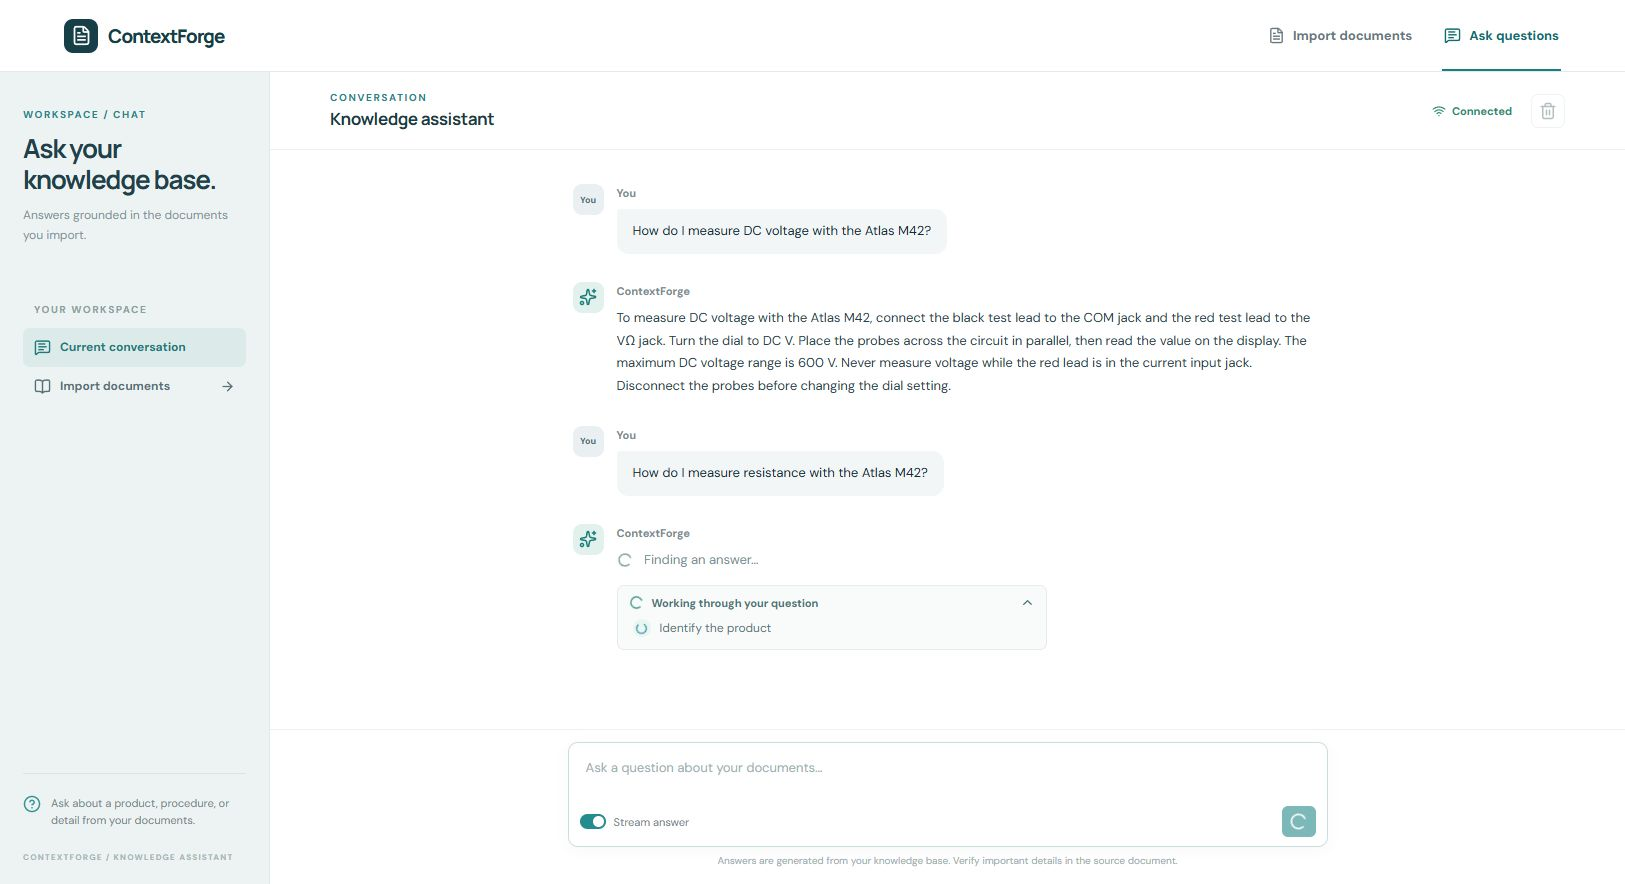
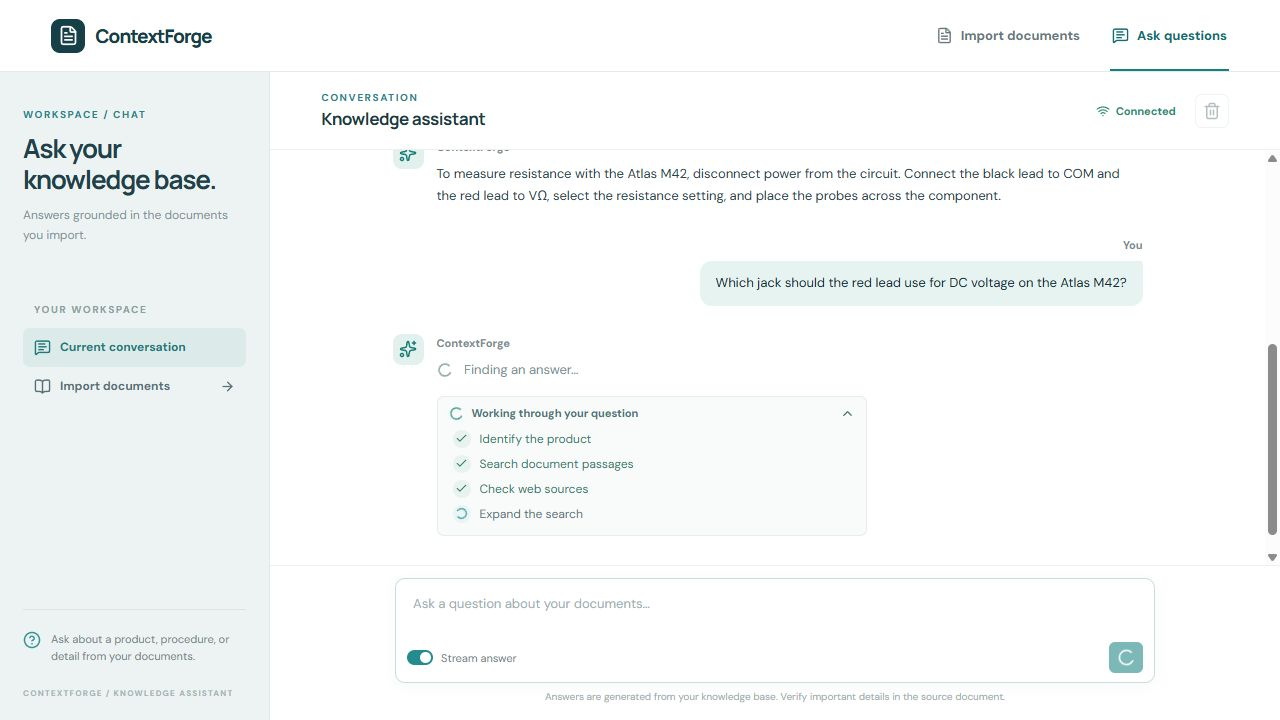
Redesign README and align user chat messages right

diff --git a/frontend/src/pages/ChatPage.tsx b/frontend/src/pages/ChatPage.tsx
@@ -153,7 +153,7 @@ export function ChatPage() {
     <section className="conversation" aria-label="Conversation">
       <header className="conversation-header"><div><p className="eyebrow">CONVERSATION</p><h2>Knowledge assistant</h2></div><div className="conversation-actions"><span className={`connection-status ${online === false ? 'offline' : ''}`}>{online === false ? <WifiOff size={14} /> : <Wifi size={14} />}{online === false ? 'Service offline' : online === null ? 'Connecting' : 'Connected'}</span><button className="icon-button" type="button" onClick={clearConversation} disabled={busy || !messages.length} aria-label="Clear conversation" title="Clear conversation"><Trash2 size={18} /></button></div></header>
       <div className="message-scroll">
-        {loadingHistory ? <div className="chat-loading"><LoaderCircle className="spin" size={23} /> Loading conversation…</div> : messages.length === 0 ? <div className="chat-welcome"><span className="welcome-mark"><Sparkles size={27} /></span><p className="eyebrow">START A CONVERSATION</p><h2>What would you like to know?</h2><p>Ask a question about your imported documents and follow each step of the answer.</p><div className="suggestions">{suggestions.map((suggestion) => <button key={suggestion} type="button" onClick={() => void send(suggestion)}>{suggestion}<ArrowRight size={16} /></button>)}</div></div> : <div className="messages">{messages.map((message) => <div className={`message-row ${message.role}`} key={message.id}><div className={`message-avatar ${message.role}`} aria-hidden="true">{message.role === 'assistant' ? <Sparkles size={18} /> : <span>You</span>}</div><div className="message-body"><div className="message-meta">{message.role === 'assistant' ? 'ContextForge' : 'You'}</div>{message.role === 'user' ? <div className="user-message">{message.text}</div> : <><div className="assistant-answer">{message.text ? <p>{message.text}</p> : <span className="thinking"><LoaderCircle size={16} className="spin" /> Finding an answer…</span>}{message.imageUrls.length > 0 && <div className="answer-images">{message.imageUrls.map((url) => <a href={url} target="_blank" rel="noreferrer" key={url}><img src={url} alt="Document reference" loading="lazy" /></a>)}</div>}</div>{message.progress && (message.progress.done_list.length > 0 || message.progress.running_list.length > 0 || message.pending) && <details className="answer-progress"><summary><span className="progress-summary-icon">{message.pending ? <LoaderCircle size={15} className="spin" /> : <Check size={15} />}</span><span>{message.pending ? 'Working through your question' : `${message.progress.done_list.length} steps completed`}</span><ChevronDown size={15} className="summary-chevron" /></summary><ProgressSteps progress={message.progress} compact /></details>}</>}</div></div>)}<div ref={endRef} /></div>}
+        {loadingHistory ? <div className="chat-loading"><LoaderCircle className="spin" size={23} /> Loading conversation…</div> : messages.length === 0 ? <div className="chat-welcome"><span className="welcome-mark"><Sparkles size={27} /></span><p className="eyebrow">START A CONVERSATION</p><h2>What would you like to know?</h2><p>Ask a question about your imported documents and follow each step of the answer.</p><div className="suggestions">{suggestions.map((suggestion) => <button key={suggestion} type="button" onClick={() => void send(suggestion)}>{suggestion}<ArrowRight size={16} /></button>)}</div></div> : <div className="messages">{messages.map((message) => <div className={`message-row ${message.role}`} key={message.id}>{message.role === 'assistant' && <div className="message-avatar assistant" aria-hidden="true"><Sparkles size={18} /></div>}<div className="message-body"><div className="message-meta">{message.role === 'assistant' ? 'ContextForge' : 'You'}</div>{message.role === 'user' ? <div className="user-message">{message.text}</div> : <><div className="assistant-answer">{message.text ? <p>{message.text}</p> : <span className="thinking"><LoaderCircle size={16} className="spin" /> Finding an answer…</span>}{message.imageUrls.length > 0 && <div className="answer-images">{message.imageUrls.map((url) => <a href={url} target="_blank" rel="noreferrer" key={url}><img src={url} alt="Document reference" loading="lazy" /></a>)}</div>}</div>{message.progress && (message.progress.done_list.length > 0 || message.progress.running_list.length > 0 || message.pending) && <details className="answer-progress"><summary><span className="progress-summary-icon">{message.pending ? <LoaderCircle size={15} className="spin" /> : <Check size={15} />}</span><span>{message.pending ? 'Working through your question' : `${message.progress.done_list.length} steps completed`}</span><ChevronDown size={15} className="summary-chevron" /></summary><ProgressSteps progress={message.progress} compact /></details>}</>}</div></div>)}<div ref={endRef} /></div>}
       </div>
       <div className="composer-area">{error && <p className="chat-error" role="alert">{error}<button type="button" onClick={() => setError('')} aria-label="Dismiss error"><RotateCcw size={15} /></button></p>}<form className="composer" onSubmit={onSubmit}><label className="visually-hidden" htmlFor="question">Ask a question</label><textarea ref={inputRef} id="question" placeholder="Ask a question about your documents…" value={question} onChange={(event) => setQuestion(event.target.value)} onKeyDown={(event) => { if (event.key === 'Enter' && !event.shiftKey) { event.preventDefault(); void send(question) } }} rows={2} disabled={busy} /><div className="composer-tools"><label className="stream-toggle"><input type="checkbox" checked={streaming} onChange={(event) => setStreaming(event.target.checked)} disabled={busy} /><span className="toggle-track" />Stream answer</label><button className="send-button" type="submit" disabled={busy || !question.trim()} aria-label="Send question">{busy ? <LoaderCircle size={19} className="spin" /> : <Send size={19} />}</button></div></form><p className="composer-caption">Answers are generated from your knowledge base. Verify important details in the source document.</p></div>
     </section>

diff --git a/frontend/src/styles.css b/frontend/src/styles.css
@@ -642,6 +642,9 @@ button:focus-visible,a:focus-visible,textarea:focus-visible,input:focus-visible,
   gap:13px;
   margin-bottom:28px
 }
+.message-row.user {
+  justify-content:flex-end
+}
 .message-avatar {
   height:31px;
   width:31px;
@@ -654,15 +657,16 @@ button:focus-visible,a:focus-visible,textarea:focus-visible,input:focus-visible,
   background:#e2f1ed;
   color:#177d76
 }
-.message-avatar.user {
-  background:#eaf0f2;
-  color:#516f79;
-  font-weight:800;
-  font-size:9px
-}
 .message-body {
   min-width:0;
   flex:1
+}
+.message-row.user .message-body {
+  flex:0 1 auto;
+  max-width:75%;
+  display:flex;
+  flex-direction:column;
+  align-items:flex-end
 }
 .message-meta {
   font-size:11px;
@@ -672,13 +676,14 @@ button:focus-visible,a:focus-visible,textarea:focus-visible,input:focus-visible,
 }
 .user-message {
   display:inline-block;
-  background:#f2f6f6;
-  border-radius:3px 12px 12px 12px;
+  background:#e6f3f1;
+  border-radius:12px 3px 12px 12px;
   padding:12px 16px;
   max-width:100%;
   line-height:1.6;
   font-size:13px;
-  white-space:pre-wrap
+  white-space:pre-wrap;
+  overflow-wrap:anywhere
 }
 .assistant-answer {
   max-width:720px;
@@ -937,6 +942,9 @@ button:focus-visible,a:focus-visible,textarea:focus-visible,input:focus-visible,
   }
   .message-row {
     gap:9px
+  }
+  .message-row.user .message-body {
+    max-width:88%
   }
   .message-avatar {
     height:28px;

diff --git a/README.md b/README.md
@@ -1,48 +1,54 @@
-# ContextForge
+<p align="center">
+  <img src="./assets/readme/contextforge-overview.svg" width="100%" alt="ContextForge turns PDF and Markdown documents into searchable passages and grounded answers with visible processing steps">
+</p>
 
-Import reference documents, then ask questions against them in a browser. ContextForge combines a React and TypeScript frontend with two FastAPI services. It turns PDF and Markdown files into a searchable knowledge base and shows each step as it builds an answer.
+**ContextForge** is a local document Q&A workspace. Import PDF or Markdown, watch each indexing step, and ask questions in a React chat interface that shows how an answer was produced.
 
-![ContextForge chat answering a question from an imported document](docs/screenshots/chat-accepted.png)
+**Stack:** React + TypeScript + Vite · FastAPI + LangGraph · Milvus + MongoDB + MinIO
 
-The chat [streams answers and processing activity](docs/screenshots/chat-processing.png), keeps conversation history, and lets you [inspect the completed steps](docs/screenshots/chat-progress-expanded.png). The separate [import workspace](docs/screenshots/import-accepted.png) shows the status of each document.
+## See it work
 
-## What you can do
+This is a real browser run against the included Atlas M42 sample document. The answer came from the imported document; the chat can also show [live processing](docs/screenshots/chat-processing.png) and [all completed steps](docs/screenshots/chat-progress-expanded.png).
 
-- **Build a knowledge base.** Import Markdown or PDF, process document images, split text into passages, and index dense and sparse BGE-M3 vectors in Milvus.
-- **Ask grounded questions.** Find relevant passages, combine retrieval results, optionally include web search results, rerank matches, and generate an answer with an OpenAI-compatible model.
-- **Follow the work.** Watch import activity and streamed answer progress in the browser. MongoDB restores conversation history when you return.
+![ContextForge React chat showing a user question on the right and a grounded answer on the left](docs/screenshots/chat-accepted.png)
 
-The import and query services run independently, so document processing does not block the chat interface.
+The [import view](docs/screenshots/import-accepted.png) tracks each document through upload, extraction, splitting, embedding, and indexing.
+
+## Try the sample
+
+1. Start the services using [Quick start](#quick-start).
+2. Upload [the Atlas M42 Markdown file](tests/fixtures/atlas-m42.md) at `http://127.0.0.1:5173/import` and wait for **Completed**.
+3. Open `http://127.0.0.1:5173/chat` and ask:
+
+   > How do I measure DC voltage with the Atlas M42?
+
+The answer should mention **COM**, **VΩ**, **DC V**, probes placed **in parallel**, and the **600 V** maximum DC range. Expand the answer's progress row to see the seven query steps. Refresh the chat to see the conversation restored from MongoDB.
+
+This Markdown flow was verified in a browser with the local Docker stack: the file was indexed in Milvus and the conversation was read back from MongoDB. PDF import additionally requires MinerU.
 
 ## Quick start
 
-These commands use Windows PowerShell from the repository root. You need Python 3.12+, [uv](https://docs.astral.sh/uv/), Node.js 22.12+ and npm, Docker Desktop, and an OpenAI-compatible model endpoint. The first installation downloads sizable Python and model dependencies.
+These commands use Windows PowerShell from the repository root. Install Python 3.12+, [uv](https://docs.astral.sh/uv/), Node.js 22.12+ with npm, and Docker Desktop. You also need an OpenAI-compatible model endpoint. The first run downloads Python dependencies and may download BGE-M3 if no local model path is configured.
 
-1. Install the Python environment and create a local configuration file:
+1. Install dependencies and copy the example configuration:
 
    ```powershell
    uv sync --locked
    Copy-Item .env.example .env
-   ```
-
-2. Edit `.env`. Set `OPENAI_BASE_URL`, `OPENAI_API_KEY`, and `LLM_DEFAULT_MODEL` for your model endpoint. Keep `LLM_DEFAULT_TEMPERATURE` numeric. Set `BGE_M3_PATH` to a local BGE-M3 model directory, or leave it empty to let the embedding library download `BAAI/bge-m3` on first use. `BGE_DEVICE=cpu` is the default; use a working CUDA device if available. The storage addresses in `.env.example` already match the local Docker stack.
-
-3. Start MongoDB, MinIO, and Milvus:
-
-   ```powershell
-   docker compose -f compose.local.yml up -d mongo minio milvus
-   docker compose -f compose.local.yml ps
-   ```
-
-4. Install the frontend dependencies:
-
-   ```powershell
    cd frontend
    npm ci
    cd ..
    ```
 
-5. Start each application service in its own terminal:
+2. Edit `.env`: set `OPENAI_BASE_URL`, `OPENAI_API_KEY`, and `LLM_DEFAULT_MODEL`. Keep `LLM_DEFAULT_TEMPERATURE` numeric. Set `BGE_M3_PATH` to a local BGE-M3 directory, or leave it blank to download `BAAI/bge-m3`. The example storage addresses match the local Docker stack.
+
+3. Start the databases and object store:
+
+   ```powershell
+   docker compose -f compose.local.yml up -d mongo minio milvus
+   ```
+
+4. Start the three application processes in separate terminals:
 
    ```powershell
    uv run contextforge import
@@ -52,69 +58,56 @@ These commands use Windows PowerShell from the repository root. You need Python 
    uv run contextforge query
    ```
 
-6. Start the React development server in a third terminal:
-
    ```powershell
    cd frontend
    npm run dev
    ```
 
-Open the [import workspace](http://127.0.0.1:5173/import), then the [chat workspace](http://127.0.0.1:5173/chat). Vite forwards import requests to port `8000` and query requests to port `8001`. Run `uv run contextforge --help` to see the backend `--host` and `--port` options.
+Open the [import page](http://127.0.0.1:5173/import) or [chat page](http://127.0.0.1:5173/chat). Vite forwards import requests to port `8000` and query requests to port `8001`.
 
-For a built frontend, run `npm run build` in `frontend/`, then start or restart the query service. It serves the React app at [localhost:8001/import](http://127.0.0.1:8001/import) and [localhost:8001/chat](http://127.0.0.1:8001/chat). The import API remains on port `8000`. Set `VITE_IMPORT_API_URL` and `VITE_QUERY_API_URL` at build time if the APIs use other origins; the development server uses its local proxies by default. The old `/import.html` and `/chat.html` URLs redirect to the new routes.
+### Built frontend
 
-### Try a document end to end
-
-Upload [the sample Atlas M42 document](tests/fixtures/atlas-m42.md) in the import workspace and wait for **Completed**. Then ask:
-
-> How do I measure DC voltage with the Atlas M42?
-
-A grounded answer should mention the black lead in **COM**, the red lead in **VΩ**, the **DC V** setting, probes placed **in parallel**, and the **600 V** maximum DC range. Expand the answer's completion line to review the processing steps. Refresh the chat page to confirm the conversation loads from MongoDB.
-
-This Markdown import and question flow was verified in a real browser against the local Docker stack. The sample document was indexed in Milvus, the query returned an answer based on that document, and the conversation was read back from MongoDB.
-
-![Completed Atlas M42 Markdown import in the browser](docs/screenshots/import-accepted.png)
-
-## Configuration
-
-Copy `.env.example` rather than editing it. `.env` is ignored by Git.
-
-| Setting | Purpose |
-| --- | --- |
-| `OPENAI_BASE_URL`, `OPENAI_API_KEY`, `LLM_DEFAULT_MODEL` | OpenAI-compatible endpoint, credential, and model used for extraction and answers. |
-| `BGE_M3_PATH`, `BGE_DEVICE` | Local embedding model path and execution device. A blank path triggers a model download on first use. |
-| `BGE_RERANKER_LARGE` | Optional local reranker model path. The query continues with its initial ordering if the reranker cannot load. |
-| `MONGO_URL`, `MILVUS_URL` | Conversation storage and vector database addresses. |
-| `MINIO_ENDPOINT`, `MINIO_ACCESS_KEY`, `MINIO_SECRET_KEY` | Document and image storage. The example credentials are for local development. |
-| `MINERU_BASE_URL`, `MINERU_API_TOKEN` | Required when importing PDF files; Markdown imports do not need MinerU. |
-| `MCP_DASHSCOPE_BASE_URL` | Optional web-search MCP endpoint. Without it, answers use local document results. |
-
-The local Compose file publishes MongoDB on `127.0.0.1:27017`, the application MinIO API on `127.0.0.1:39000` (console: `39001`), and Milvus on `127.0.0.1:39530`. Docker volumes preserve data between restarts. Stop the stack with `docker compose -f compose.local.yml down`.
+Run `npm run build` in `frontend/`, then start or restart the query service. FastAPI serves the built React app at `http://127.0.0.1:8001/import` and `http://127.0.0.1:8001/chat`; the import API stays on port `8000`. If your APIs use other origins, set `VITE_IMPORT_API_URL` and `VITE_QUERY_API_URL` when building. The old `/import.html` and `/chat.html` URLs redirect to the React routes.
 
 ## How it works
 
-**Import:** upload a document → convert PDF to Markdown when needed → process images → split passages → identify product names → embed text → write vectors to Milvus.
+- **Import:** upload → convert PDF when needed → process images → split passages → identify products → generate BGE-M3 vectors → store them in Milvus.
+- **Ask:** identify the product → search passages and optional web results → combine and rerank results → generate a streamed answer. MongoDB stores the conversation for later visits.
 
-**Query:** identify the product in the question → search document passages and optional web results → combine and rerank matches → generate and stream the answer. MongoDB stores user and assistant messages for later turns.
+The React application is in [`frontend/src`](frontend/src). The two FastAPI services and LangGraph workflows are in [`src/app/import_process`](src/app/import_process) and [`src/app/query_process`](src/app/query_process). The browser remembers import task IDs across navigation and reloads; the import API supplies their current status.
 
-The React and TypeScript frontend lives under [`frontend/src`](frontend/src). Shared navigation, upload activity, conversation history, and streamed answer progress are React components. The browser remembers import task IDs locally so the activity list survives navigation and reloads; the import service remains the source of truth for task status. Vite provides the development server and builds static assets for the query service to serve. The Python code lives under [`src/app`](src/app): `import_process` and `query_process` contain their respective LangGraph workflows and FastAPI services, while `clients` contains the storage integrations.
+## Configuration
+
+`.env` is ignored by Git. Copy `.env.example` and set only the integrations you use.
+
+| Setting | Purpose |
+| --- | --- |
+| `OPENAI_BASE_URL`, `OPENAI_API_KEY`, `LLM_DEFAULT_MODEL` | OpenAI-compatible endpoint and model for extraction and answers. |
+| `BGE_M3_PATH`, `BGE_DEVICE` | Embedding model path and device; blank path downloads the model on first use. |
+| `BGE_RERANKER_LARGE` | Optional local reranker; query continues with its initial ordering if unavailable. |
+| `MONGO_URL`, `MILVUS_URL` | Conversation history and vector search. |
+| `MINIO_ENDPOINT`, `MINIO_ACCESS_KEY`, `MINIO_SECRET_KEY` | Document and image storage. |
+| `MINERU_BASE_URL`, `MINERU_API_TOKEN` | PDF conversion; not needed for Markdown import. |
+| `MCP_DASHSCOPE_BASE_URL` | Optional web-search MCP endpoint. |
+
+The Compose stack publishes MongoDB on `127.0.0.1:27017`, MinIO on `127.0.0.1:39000` (console: `39001`), and Milvus on `127.0.0.1:39530`. Docker volumes retain data. Stop the stack with `docker compose -f compose.local.yml down`.
 
 ## HTTP API
 
-Each service exposes interactive API documentation at `/docs` on its own port.
+Each FastAPI service exposes interactive documentation at `/docs` on its own port.
 
 | Service | Endpoint | Purpose |
 | --- | --- | --- |
-| Import | `POST /upload` | Upload one or more PDF or Markdown files as multipart `files`. |
-| Import | `GET /status/{task_id}` | Read an import task's status and steps. |
-| Query | `GET /health` | Check that the HTTP service is running. |
-| Query | `POST /query` | Ask a question with `query`, optional `session_id`, and `is_stream`. |
-| Query | `GET /stream/{session_id}` | Receive progress and answer events for a streamed query. |
-| Query | `GET /status/{session_id}` | Read query progress and the latest answer. |
-| Query | `GET /history/{session_id}` | Load recent conversation messages. |
+| Import | `POST /upload` | Upload PDF or Markdown files as multipart `files`. |
+| Import | `GET /status/{task_id}` | Read import status and steps. |
+| Query | `GET /health` | Check service health. |
+| Query | `POST /query` | Ask with `query`, optional `session_id`, and `is_stream`. |
+| Query | `GET /stream/{session_id}` | Receive streamed progress and answer events. |
+| Query | `GET /status/{session_id}` | Read query status and latest answer. |
+| Query | `GET /history/{session_id}` | Load conversation messages. |
 | Query | `DELETE /history/{session_id}` | Clear a conversation. |
 
-For a direct request without streaming:
+A direct request without streaming:
 
 ```powershell
 $body = @{ query = 'How do I measure voltage?'; is_stream = $false } | ConvertTo-Json
@@ -123,14 +116,14 @@ Invoke-RestMethod -Uri http://127.0.0.1:8001/query -Method Post -ContentType 'ap
 
 ## Current scope
 
-- PDF conversion needs a configured MinerU service. The browser acceptance above exercises Markdown import.
-- Web search is optional and needs an MCP endpoint. Knowledge-graph querying is not connected to the current answer workflow.
-- The included services are configured for local development and do not implement user authentication.
+- PDF conversion needs a configured MinerU service. The verified sample uses Markdown.
+- Web search requires an MCP endpoint. Knowledge-graph querying is not connected to the current answer workflow.
+- The local services do not include user authentication.
 
 ## Troubleshooting
 
 | Symptom | Check |
 | --- | --- |
-| A service fails during startup | Set the model endpoint values in `.env` and keep `LLM_DEFAULT_TEMPERATURE` numeric. |
-| Import or search cannot reach storage | Run `docker compose -f compose.local.yml ps` and compare the addresses in `.env` with the ports above. |
-| PDF import fails while Markdown works | Configure `MINERU_BASE_URL` and `MINERU_API_TOKEN` before retrying the PDF. |
+| A service fails on startup | Verify the model endpoint settings and numeric `LLM_DEFAULT_TEMPERATURE` in `.env`. |
+| Import or search cannot reach storage | Run `docker compose -f compose.local.yml ps` and compare the local addresses above with `.env`. |
+| PDF import fails while Markdown works | Configure `MINERU_BASE_URL` and `MINERU_API_TOKEN`. |
